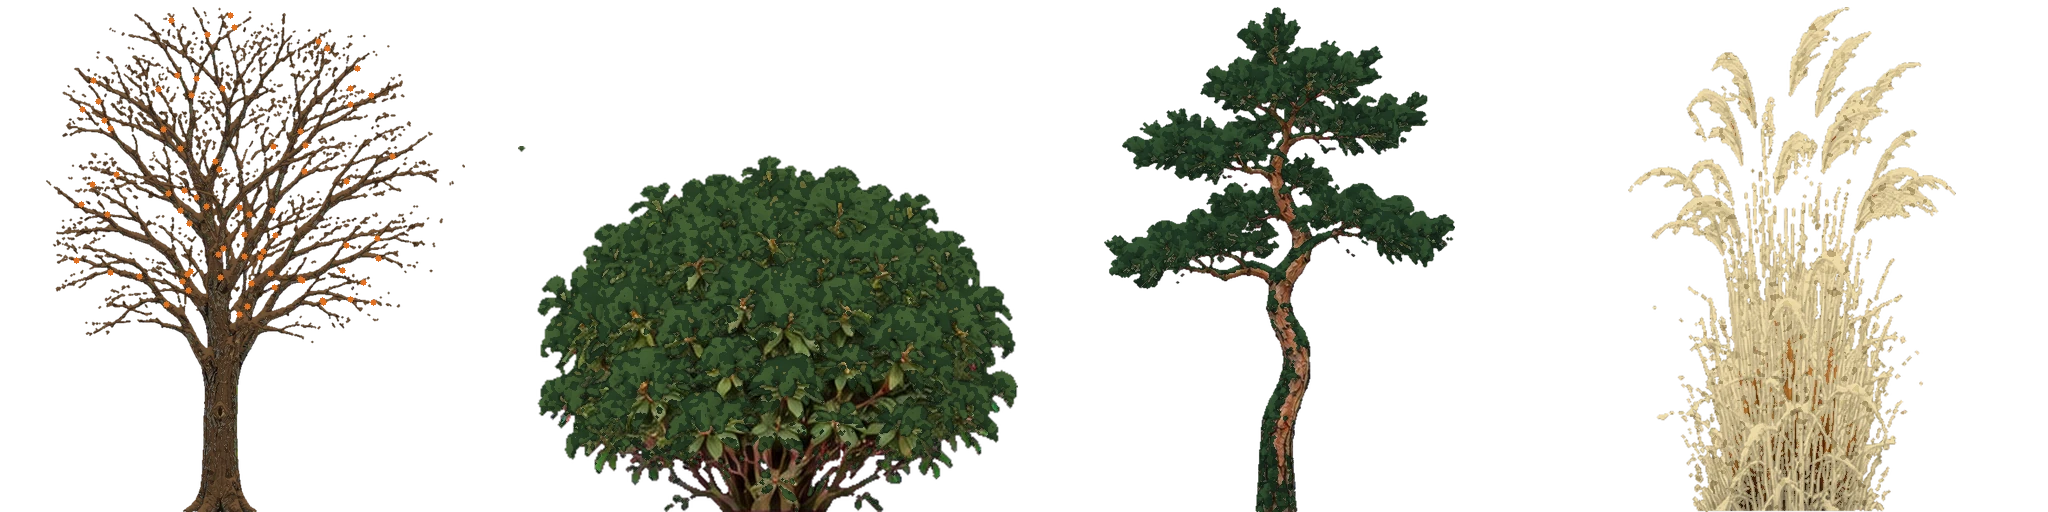
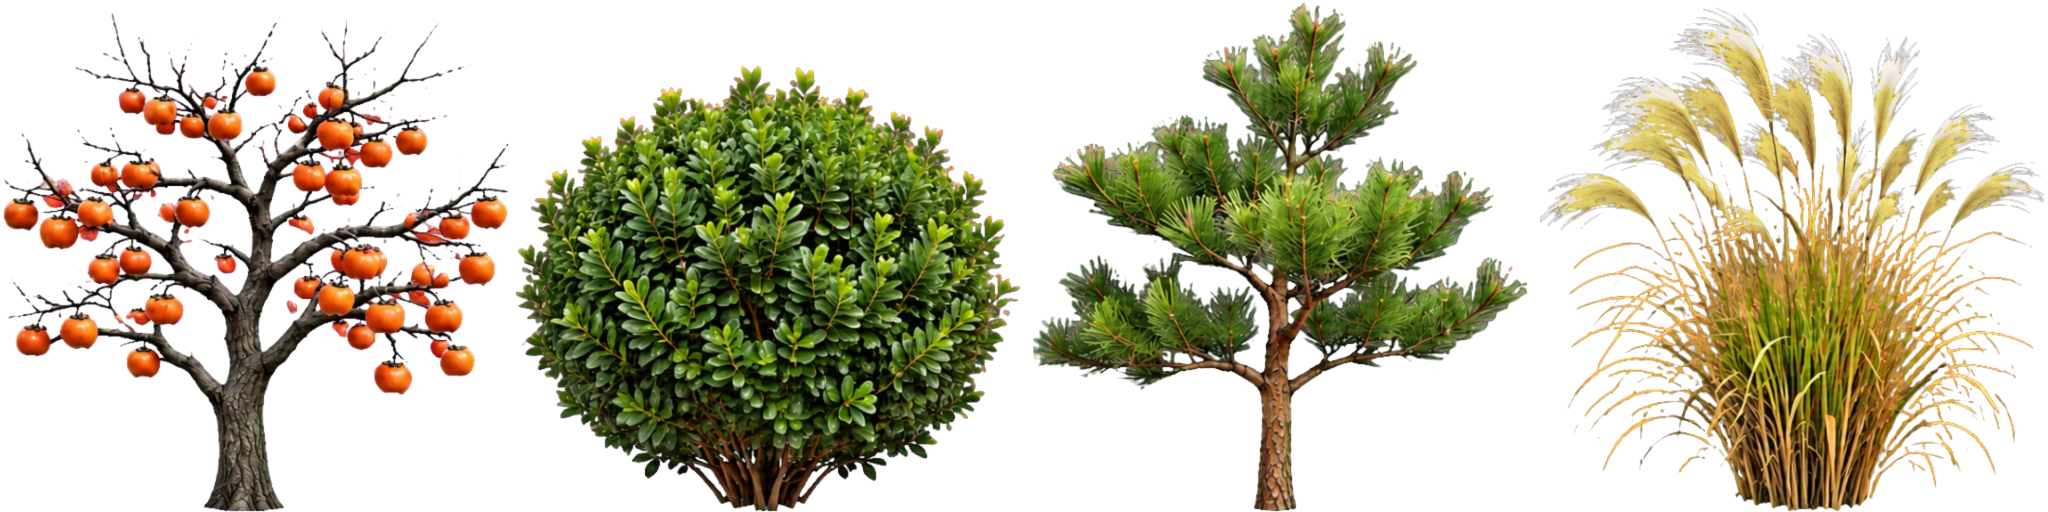
2막 나무·감나무·억새·갯바위를 ChatGPT로 새로 만든 늦가을 에셋으로 교체, 2막 지명 조사 다듬기
Claude-Session: https://claude.ai/code/session_01JKBXuaPUuzt9c3zVNcTUSx

diff --git a/unfinished-war/index.html b/unfinished-war/index.html
@@ -1106,7 +1106,7 @@ function updateFx(dt) {
 // ================= radio, feed, banner
 // 막(Act): 2막에서는 1막 지명(청와대·자하문·버스…)을 2막 지명으로 바꿔 보여 줌
 let ACT = null;
-const AT_MAP2 = [['청와대 정문', '마을 입구'], ['청와대 방어선', '마을 방어선'], ['청와대 쪽', '마을 쪽'], ['청와대 앞', '마을 앞'], ['청와대 좌표', '마을 좌표'], ['청와대 담장', '마을 담장'], ['청와대', '나곡 마을'], ['자하문 검문소', '해안 초소'], ['자하문 고개', '서쪽 골짜기'], ['자하문', '해안'], ['북악산', '태백 능선'], ['북악', '태백'], ['삼청동', '나곡 해안'], ['효자로', '신작로'], ['시내버스', '정미소'], ['버스 정류장', '정미소'], ['버스', '정미소'], ['승객', '주민'], ['시민', '주민'], ['정문', '마을 입구']];
+const AT_MAP2 = [['북악산 능선', '태백 능선'], ['북악 능선', '태백 능선'], ['정문으로', '마을 입구로'], ['정문은', '마을 입구는'], ['청와대 정문', '마을 입구'], ['청와대 방어선', '마을 방어선'], ['청와대 쪽', '마을 쪽'], ['청와대 앞', '마을 앞'], ['청와대 좌표', '마을 좌표'], ['청와대 담장', '마을 담장'], ['청와대', '나곡 마을'], ['자하문 검문소', '해안 초소'], ['자하문 고개', '서쪽 골짜기'], ['자하문', '해안'], ['북악산', '태백 능선'], ['북악', '태백'], ['삼청동', '나곡 해안'], ['효자로', '신작로'], ['시내버스', '정미소'], ['버스 정류장', '정미소'], ['버스', '정미소'], ['승객', '주민'], ['시민', '주민'], ['정문', '마을 입구']];
 function AT(s) { if (!ACT || ACT.id === 1 || typeof s !== 'string') return s; for (const [a, b] of AT_MAP2) if (s.indexOf(a) >= 0) s = s.split(a).join(b); return s; }
 const SPEAK = { '적 무전': '#ff8a7a', '통제실': '#8fc6ff', '알파2': '#9fe8b8', '알파3': '#9fe8b8', '알파4': '#9fe8b8', '경찰관': '#ffd24a', '분대장': '#ffffff' };
 const RQ = []; let rCur = null;
@@ -4168,7 +4168,7 @@ async function voSay(text, who, pri) {
   } catch (e) { /* voice unavailable */ }
 }
 // --- 외침: 아군이 방향을 알려 줌, 수류탄 경고
-function callout(a, text, pri) { if (!a) return; dnum(a.x, 2.95, a.z, text, 'tag'); voSay(text, a.player ? '분대장' : a.name || '아군', pri || 1); }
+function callout(a, text, pri) { if (!a) return; text = AT(text); dnum(a.x, 2.95, a.z, text, 'tag'); voSay(text, a.player ? '분대장' : a.name || '아군', pri || 1); }
 function nearAlly(x, z) { let best = null, bd = 1e9; for (const a of G.actors) { if (!a.alive || a.team !== FRIEND || a.player || isDown(a)) continue; const d = (a.x - x) ** 2 + (a.z - z) ** 2; if (d < bd) { bd = d; best = a; } } return best; }
 function calloutTick() {
   if (!D.on || D.st !== 'wave' || !rl('coTick', 450)) return;
